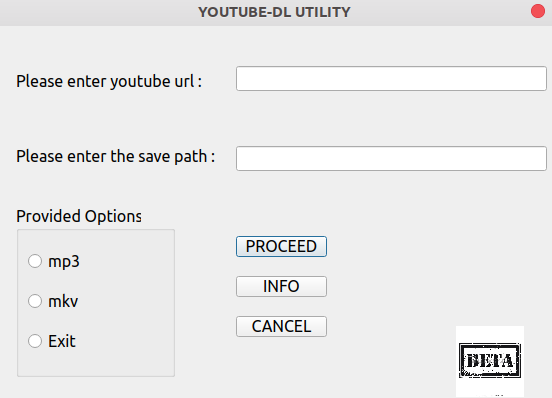
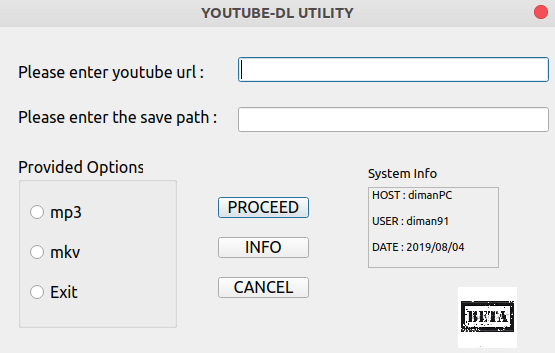
Add host related info using Qt's QProcess class

diff --git a/GUI_Prog/youtube_utility_draft_1/youtube_dl_dialog.cpp b/GUI_Prog/youtube_utility_draft_1/youtube_dl_dialog.cpp
@@ -33,6 +33,38 @@ Youtube_dl_Dialog::Youtube_dl_Dialog(QWidget *parent) :
     int width = ui->label_beta->width();
     int height = ui->label_beta->height();
     ui->label_beta->setPixmap(pix.scaled(width, height, Qt::KeepAspectRatio));
+
+    // Create a QProcess Object to capture the output of Linux commands
+    /* Print info about where this GUI is running using QProcess widget
+     * QString username = id -un
+     * QString hostname = hostname
+     * QString date     = date
+    */
+    QProcess id, date, hostname, time;
+    QString id_output, date_output, hostname_output; //time_output;
+    QString AIO;
+    id.start("id -un");     // SAME AS id.start("id", QStringList << "-un");
+    id.waitForFinished();
+    id_output = id.readAllStandardOutput();
+    //qDebug() << id_output << endl;
+
+    date.start("date +%Y/%m/%d");
+    date.waitForFinished();
+    date_output = date.readAllStandardOutput();
+
+    hostname.start("hostname");
+    hostname.waitForFinished();
+    hostname_output = hostname.readAllStandardOutput();
+
+    //time.start("date +%H:%M:%S");
+    //time.waitForFinished();
+    //time_output = time.readAllStandardOutput();
+
+    // Output all this info to the system_label
+    //AIO = "HOST: " + hostname_output + "USER: " + id_output + "\nDATE: " + date_output + "\nTime: " + time_output;
+    //AIO = "DATE : " + date_output + "\nTIME : " + time_output;
+    AIO = "HOST : " + hostname_output + "\nUSER : " + id_output + "\nDATE : " + date_output;
+    ui->system_label->setText(AIO);
 }
 
 Youtube_dl_Dialog::~Youtube_dl_Dialog()
@@ -136,14 +168,7 @@ void Youtube_dl_Dialog::on_cancel_pushButton_clicked()
     reject();
 }
 
-/* Print info about where this GUI is running using QProcess widget
- * QString username = id -un
- * QString hostname = hostname
- * QString date     = date
- */
-
-
 void Youtube_dl_Dialog::on_info_button_clicked()
 {
-    QMessageBox::information(this, "INFO", "This is a simple Youtube-dl GUI to help You download a url in music or video format!\nEnter url, path, choose format and press PROCEED!");
+    QMessageBox::information(this, "INFO", "This is a simple Youtube-dl GUI to help You download a url in music or video format!\nEnter url, path, choose format and press PROCEED");
 }

diff --git a/GUI_Prog/youtube_utility_draft_1/youtube_dl_dialog.h b/GUI_Prog/youtube_utility_draft_1/youtube_dl_dialog.h
@@ -3,10 +3,11 @@
 
 #include <QDialog>
 
-#include <QDebug>             // for debug messages diaplyed in the Qt Creator console
-#include <QMessageBox>       //  Message boxes
-#include <stdlib.h>         //   system() function
-#include <QPixmap>         //    for the beta version logo
+#include <QDebug>             // For debug messages diaplyed in the Qt Creator console
+#include <QMessageBox>       //  For Message boxes
+#include <stdlib.h>         //   For system() function
+#include <QPixmap>         //    For the beta version image logo
+#include <QProcess>       //     For the left upper label information label | to be filled by this Object functions
 
 namespace Ui {
 class Youtube_dl_Dialog;
